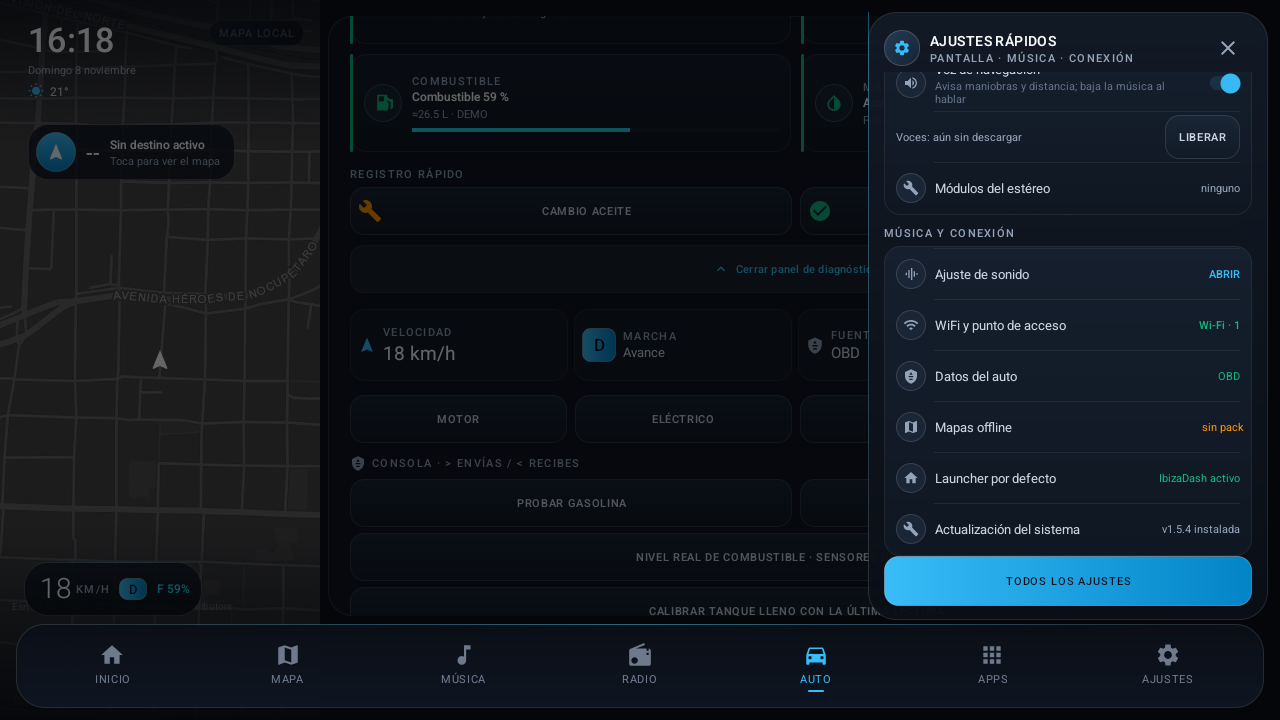
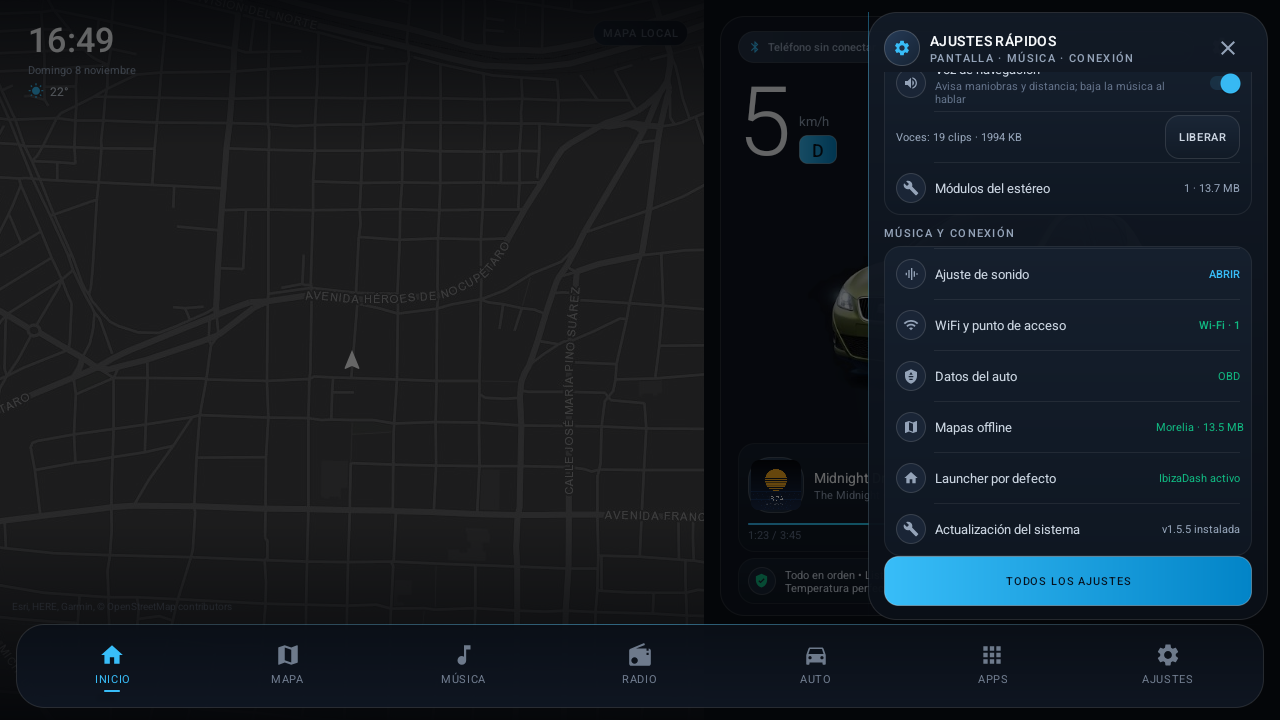
estado: contar teselas .tile como mapas offline y publicar galeria 1.5.5
Ajustes rapidos muestra 'Morelia · 13.5 MB' cuando hay teselas del modulo o del telefono, en vez de 'sin pack'. La galeria se actualiza con la captura corregida y la hoja de contacto 1.5.5. Version 1.5.5.

diff --git a/app/src/main/java/com/chronosbvrx/ibizadash/MainActivity.kt b/app/src/main/java/com/chronosbvrx/ibizadash/MainActivity.kt
@@ -13,6 +13,7 @@ import android.content.res.ColorStateList
 import android.graphics.Color
 import android.location.Location
 import android.location.LocationListener
+import java.io.File
 import android.location.LocationManager
 import android.media.AudioManager
 import android.os.Bundle
@@ -3110,6 +3111,25 @@ class MainActivity : AppCompatActivity(), LocationListener {
                     val mb = files.sumOf { it.length() } / 1048576L
                     text = "${files.size} packs · ${mb}MB"
                     colorRes = R.color.green
+                } else {
+                    // El módulo y el teléfono guardan teselas sueltas; también
+                    // cuentan como mapa offline.
+                    val tilesDir = File(
+                        org.osmdroid.config.Configuration.getInstance().osmdroidTileCache,
+                        "EsriDark"
+                    )
+                    val tiles = if (tilesDir.exists()) {
+                        tilesDir.walkTopDown()
+                            .filter { it.isFile && it.extension.equals("tile", true) }
+                            .toList()
+                    } else {
+                        emptyList()
+                    }
+                    if (tiles.isNotEmpty()) {
+                        val mb = tiles.sumOf { it.length() } / 1048576.0
+                        text = "Morelia · %.1f MB".format(mb)
+                        colorRes = R.color.green
+                    }
                 }
             } catch (_: Exception) {
             }

diff --git a/docs/screenshots/gallery.html b/docs/screenshots/gallery.html
@@ -169,7 +169,7 @@
     Los datos del coche son del modo demo y el mapa usa el paquete offline de Morelia.
   </p>
   <div class="badges">
-    <span class="badge">IbizaDash 1.5.4 · estéreo</span>
+    <span class="badge">IbizaDash 1.5.5 · estéreo</span>
     <span class="badge alt">IbizaCompanion 1.5.3 · teléfono</span>
     <span class="badge green">15 pantallas del estéreo</span>
     <span class="badge green">10 pantallas del teléfono</span>
@@ -340,7 +340,7 @@
 <footer>
   Capturas reales del emulador (1280×720) con datos OBD de demostración y el paquete offline de Morelia.
   Haz clic en cualquier captura para verla a tamaño completo.
-  · IbizaDash 1.5.4 · IbizaCompanion 1.5.3 ·
+  · IbizaDash 1.5.5 · IbizaCompanion 1.5.3 ·
   <a href="https://github.com/ChronosBVRX/IbizaDash" style="color:#1fb6ff">ChronosBVRX/IbizaDash</a>
 </footer>
 

diff --git a/README.md b/README.md
@@ -12,7 +12,7 @@ Launcher/dashboard estilo Tesla para el **SEAT Ibiza 6J 2010, 2.0 Style 4 puerta
   (capturas reales del estéreo y del teléfono, con hojas de contacto).
 - **Paquete del estéreo:** `com.chronosbvrx.ibizadash`
 - **Paquete del teléfono:** `com.chronosbvrx.ibizacompanion`
-- **Versiones actuales:** IbizaDash **1.5.4** (versionCode 23) · IbizaCompanion **1.5.3** (versionCode 17)
+- **Versiones actuales:** IbizaDash **1.5.5** (versionCode 24) · IbizaCompanion **1.5.3** (versionCode 17)
 - **minSdk 23 / targetSdk 33 / compileSdk 36** (estéreo)
 - Hecho con **Views** (sin Compose) en el estéreo para que sea liviano en el Cortex-A7.
 

diff --git a/docs/screenshots/README.md b/docs/screenshots/README.md
@@ -17,7 +17,7 @@ Haz clic en cualquier captura para verla a tamaño completo.
 
 | Carpeta | App | Pantallas |
 |---|---|---|
-| `stereo/` | IbizaDash 1.5.4 | Inicio, mapa, música, radio, mi auto, diagnóstico, motor, eléctrico, fallas, consola, ajustes rápidos, conexión, ajustes, apps y guía |
+| `stereo/` | IbizaDash 1.5.5 | Inicio, mapa, música, radio, mi auto, diagnóstico, motor, eléctrico, fallas, consola, ajustes rápidos, conexión, ajustes, apps y guía |
 | `phone/` | IbizaCompanion 1.5.3 | Inicio, rutas, sugerencias, ruta, música, conexión, OTA, ajustes, módulos y sistema |
 
 Hojas de contacto:
